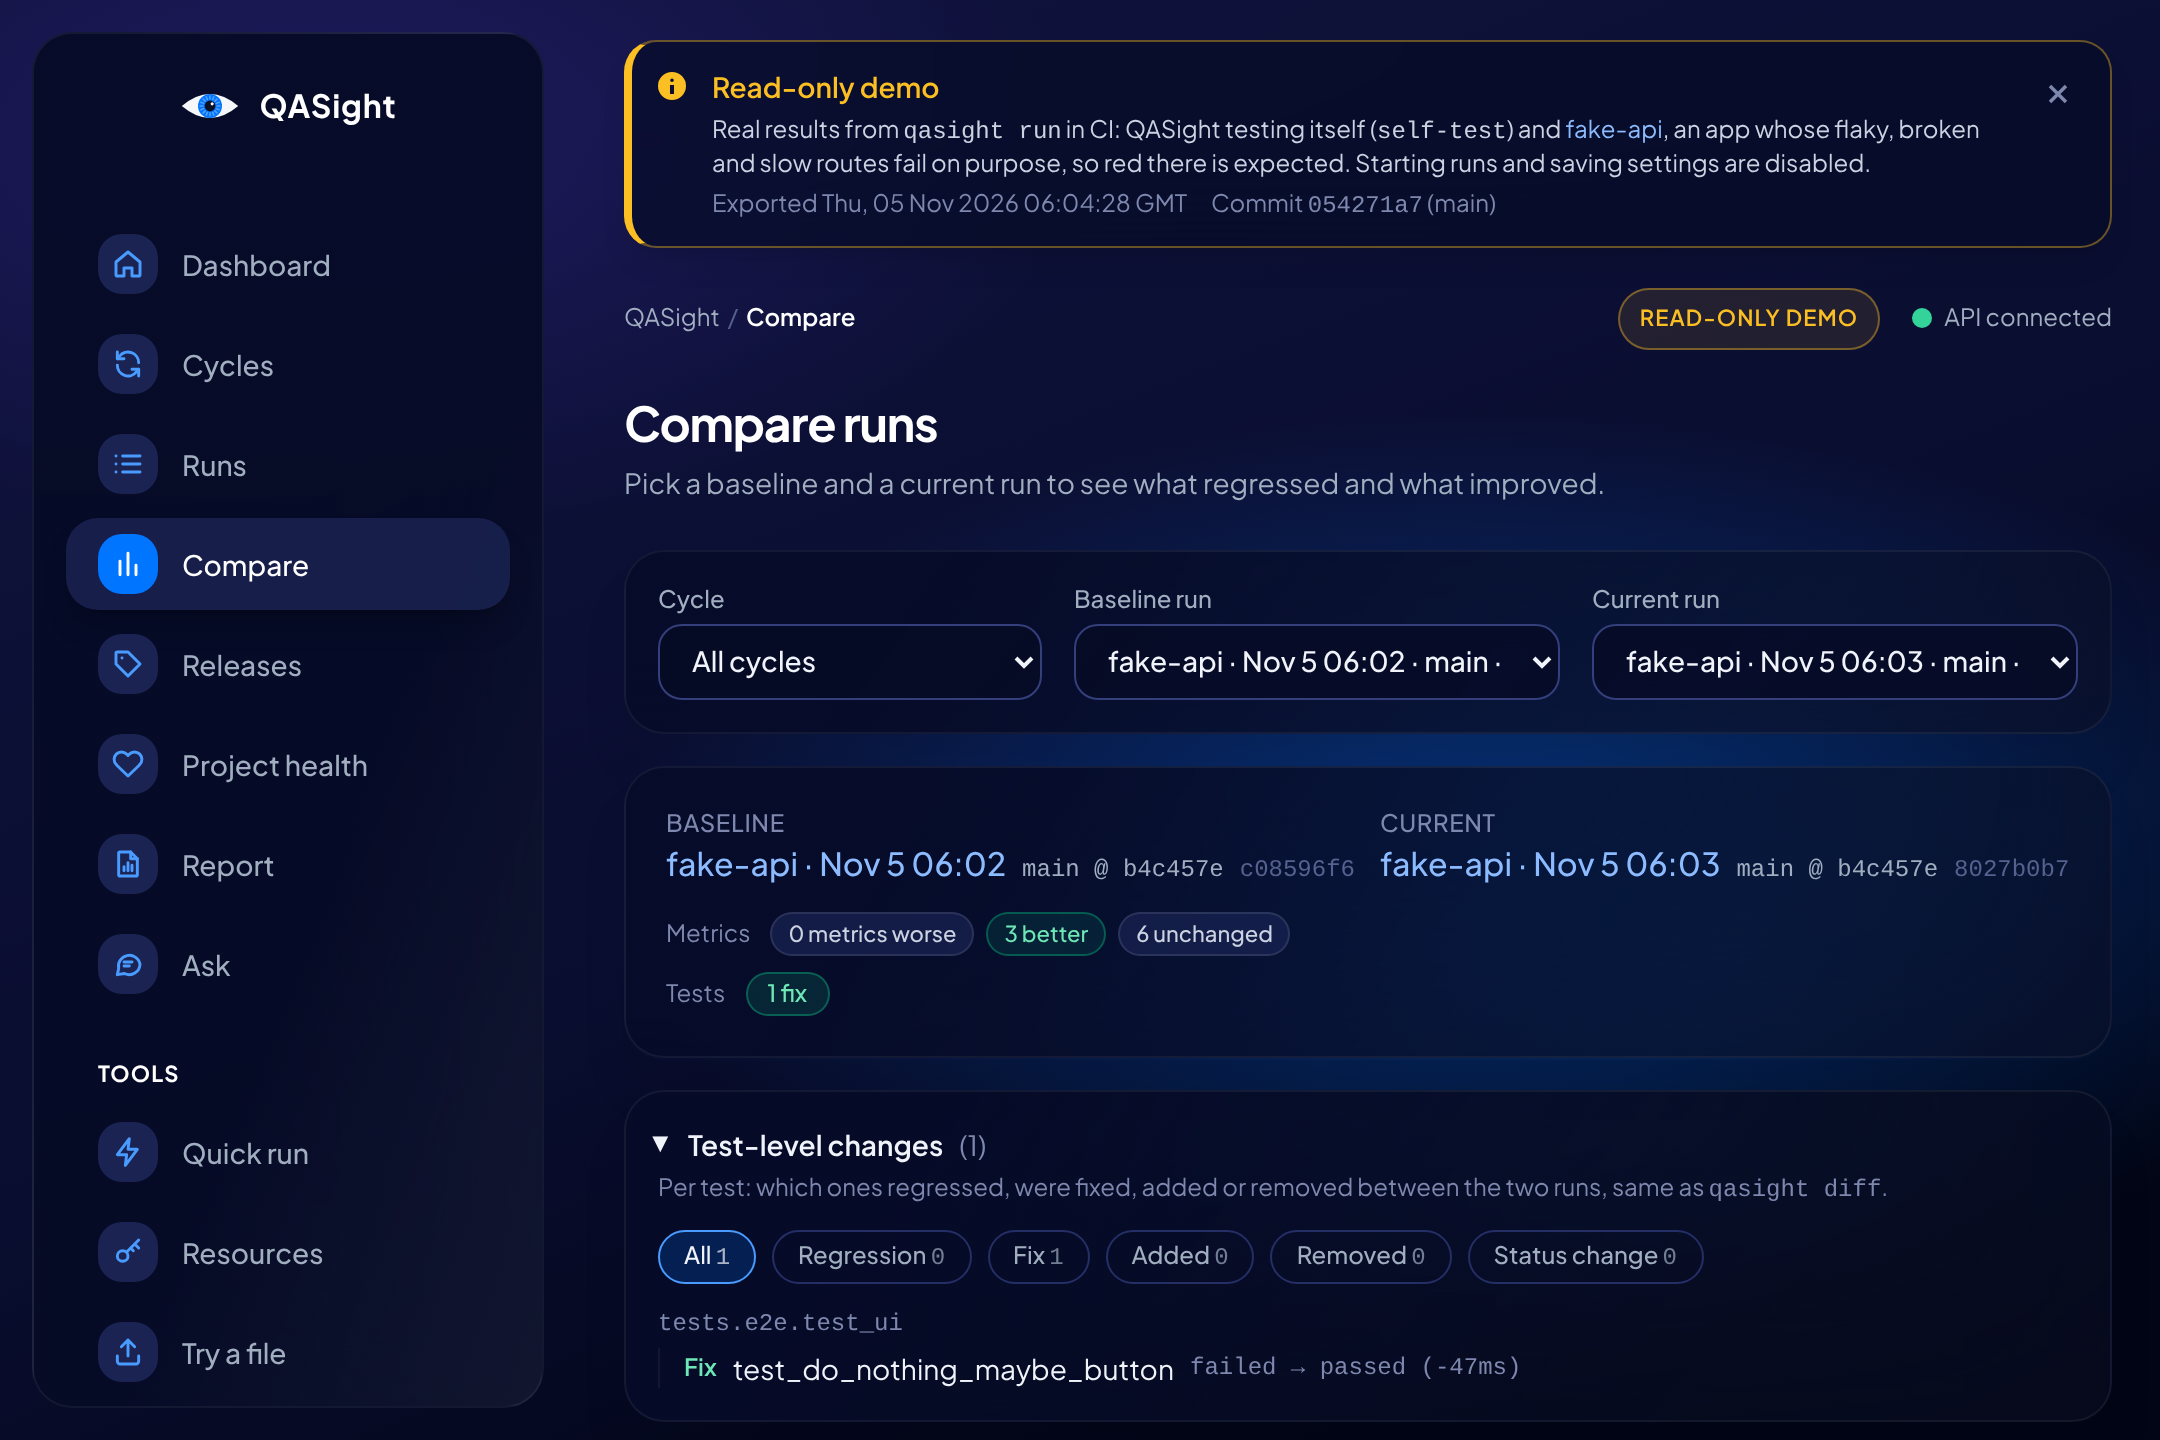
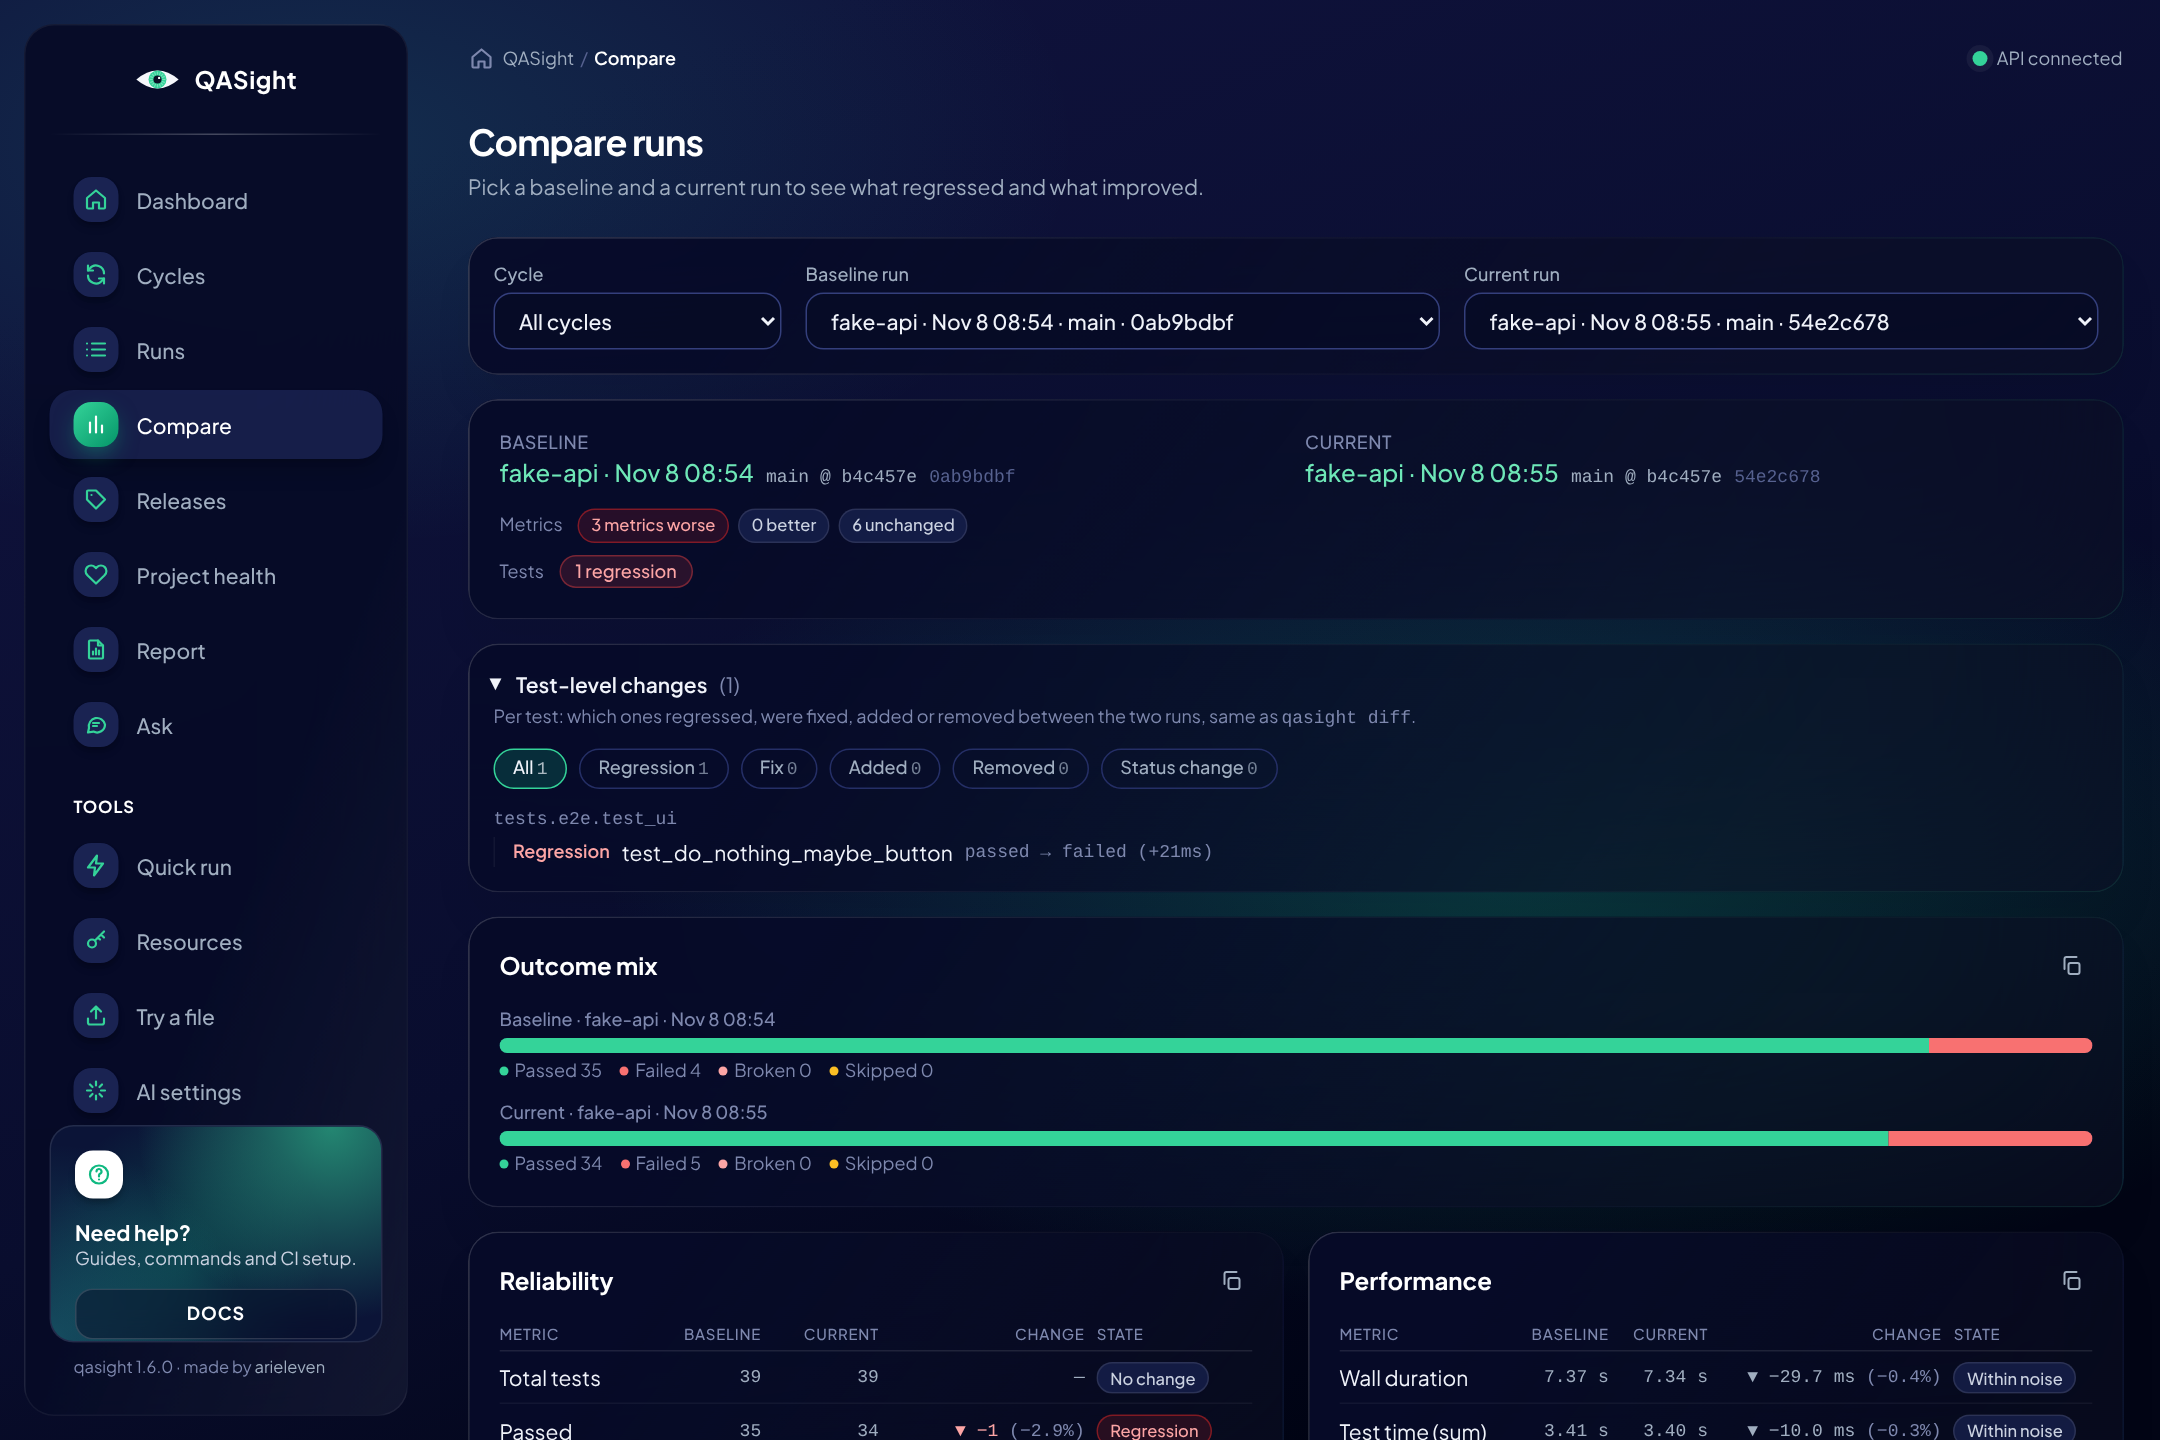
docs: retake the readme screenshots with the green dashboard
Claude-Session: https://claude.ai/code/session_01AsDFGD9SsaZfN5uRk1RBYy

diff --git a/README.md b/README.md
@@ -19,13 +19,13 @@ _Formerly Testosterone (`testo-core`). Old commands, imports and config files ke
 
 **Live demo: <https://arieleven.github.io/qasight/>** · **Docs: <https://arieleven.github.io/qasight/docs/>**
 
-[![Dashboard: what needs attention first (the red fake-api cycle), then project health, failed, passed and duration cards for the latest run compared with the one before](docs/assets/screenshots/dashboard.png)](https://arieleven.github.io/qasight/)
+[![Dashboard: the latest fake-api run in a hero card with QASight's eye drawn as a pie of its results, the project health gauge, what needs attention first, and a bar per recent run](docs/assets/screenshots/dashboard.png)](https://arieleven.github.io/qasight/)
 
 | Run detail (failed fake-api run) | Compare (two fake-api runs) |
 |---|---|
 | [![Run detail of a failed fake-api run: summary, report links, test pyramid and per-stage health](docs/assets/screenshots/run-detail-failed-fake-api.png)](docs/assets/screenshots/run-detail-failed-fake-api.png) | [![Compare view: regressions and improvements, outcome mix, and reliability and performance deltas between two fake-api runs](docs/assets/screenshots/compare-fake-api-runs.png)](docs/assets/screenshots/compare-fake-api-runs.png) |
 | **Cycle page with its flaky tests** | **Dashboard on a phone** |
-| [![fake-api cycle page: run the cycle from the browser, the flaky test it found with its pass and fail history, and the cycle's stages](docs/assets/screenshots/cycle-detail-fake-api.png)](docs/assets/screenshots/cycle-detail-fake-api.png) | <a href="docs/assets/screenshots/dashboard-phone.png"><img src="docs/assets/screenshots/dashboard-phone.png" width="200" alt="Dashboard at phone width: top bar with menu and stacked health, failed, pass count and duration cards"></a> |
+| [![fake-api cycle page: run the cycle from the browser, the flaky test it found with its pass and fail history, and the cycle's stages](docs/assets/screenshots/cycle-detail-fake-api.png)](docs/assets/screenshots/cycle-detail-fake-api.png) | <a href="docs/assets/screenshots/dashboard-phone.png"><img src="docs/assets/screenshots/dashboard-phone.png" width="200" alt="Dashboard at phone width: top bar with menu, the latest run card with its failed, passed and duration numbers, and the project health gauge"></a> |
 
 What you're looking at: QASight testing itself (its own test suite) and `fake-api`, a
 small app whose routes fail on purpose. CI runs both cycles and publishes the real results as a

diff --git a/docs/Specs & ADRs/UI Polish - 2026-11-08.md b/docs/Specs & ADRs/UI Polish - 2026-11-08.md
@@ -60,7 +60,7 @@ Taltal asked about the palette and the eye. The electric blue `#0075ff` was the 
 
 Not changed: the printed and exported report (white paper, its own colours).
 
-Follow-up the same day: the docs site, which still wore the Testosterone-era deep orange and amber, now uses the same green on navy (`docs/assets/stylesheets/qasight.css`, Material's `custom` palette: green header in the light scheme, the app's navy in the dark one), and the README screenshots are retaken with the new dashboard.
+Follow-up the same day: the docs site, which still wore the Testosterone-era deep orange and amber, now uses the same green on navy (`docs/assets/stylesheets/qasight.css`, Material's `custom` palette: green header in the light scheme, the app's navy in the dark one), and the README screenshots are retaken with the new dashboard from seven real fake-api runs. Retaking them showed the eye covering the hero's headline on laptop widths (1024 to 1400 px), where the hero column is narrow; there it now sits small in the corner like on phones, and shows full size from a new `wide` breakpoint (87.5rem, in `tailwind.config.ts`). The UI walkthrough GIF in the README is still the old look.
 
 Not taken from the reference: the photo hero card, the settings button, avatars and the RTL page, which are template demo content with no QASight meaning.
 
